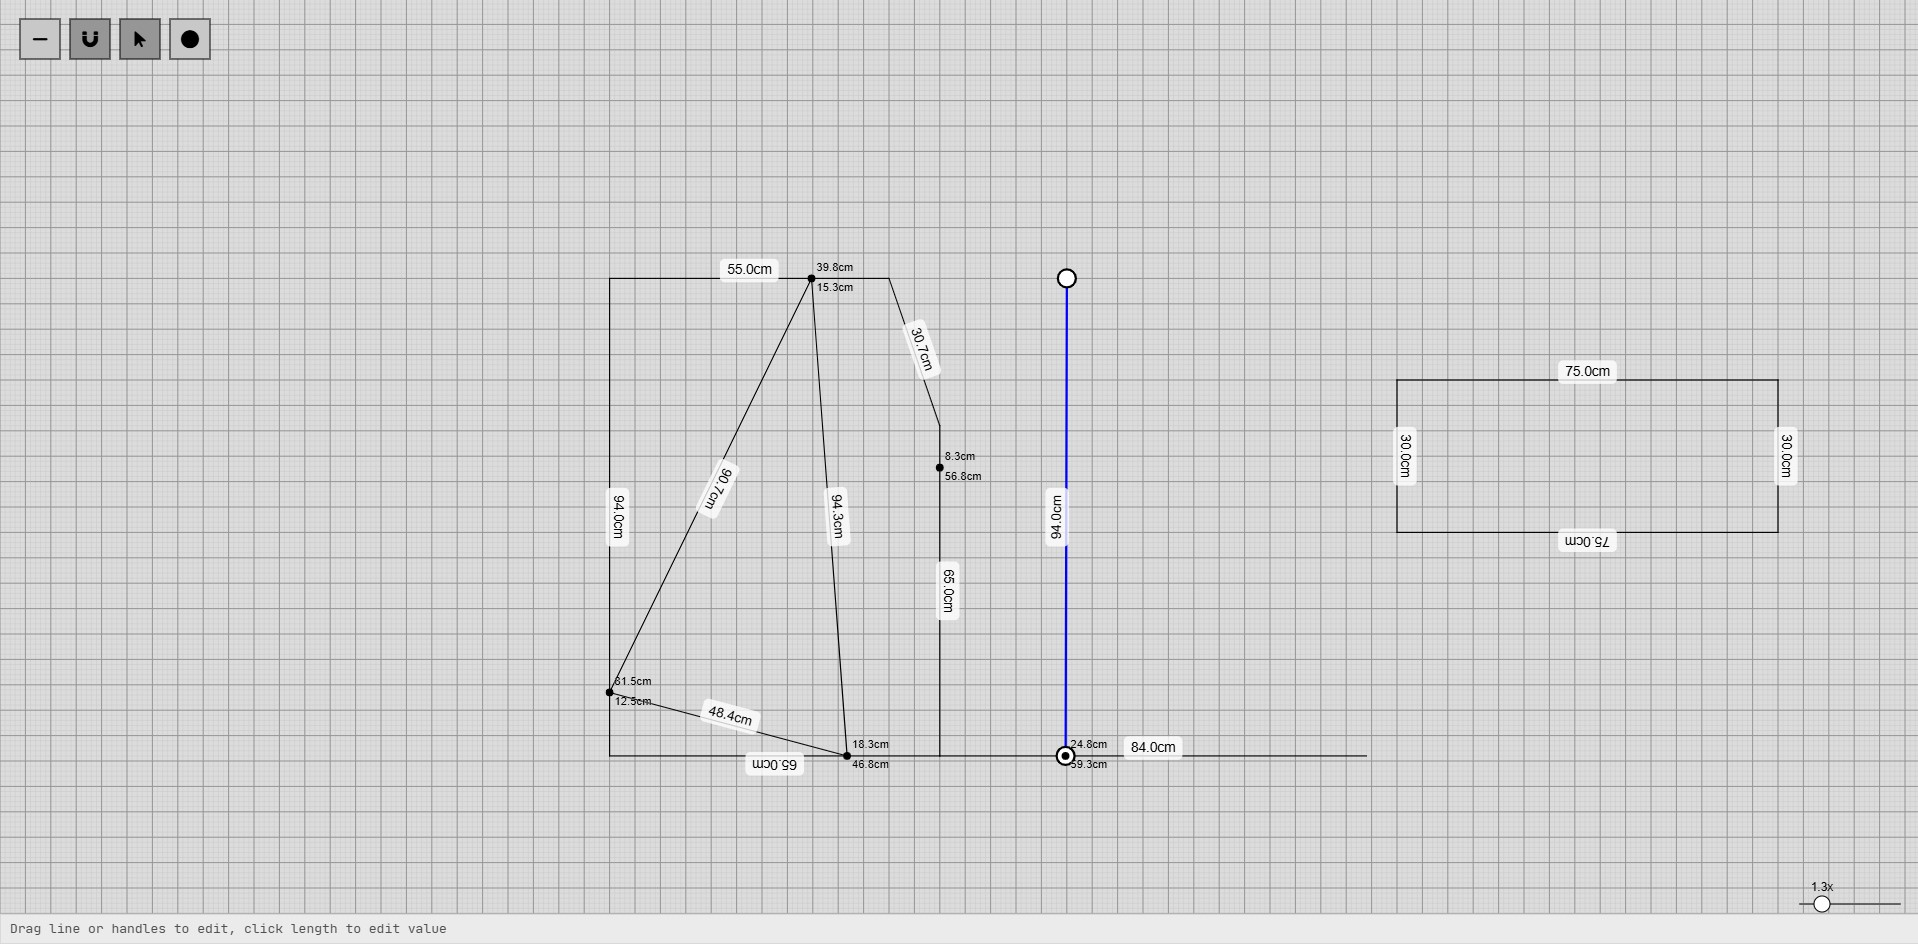
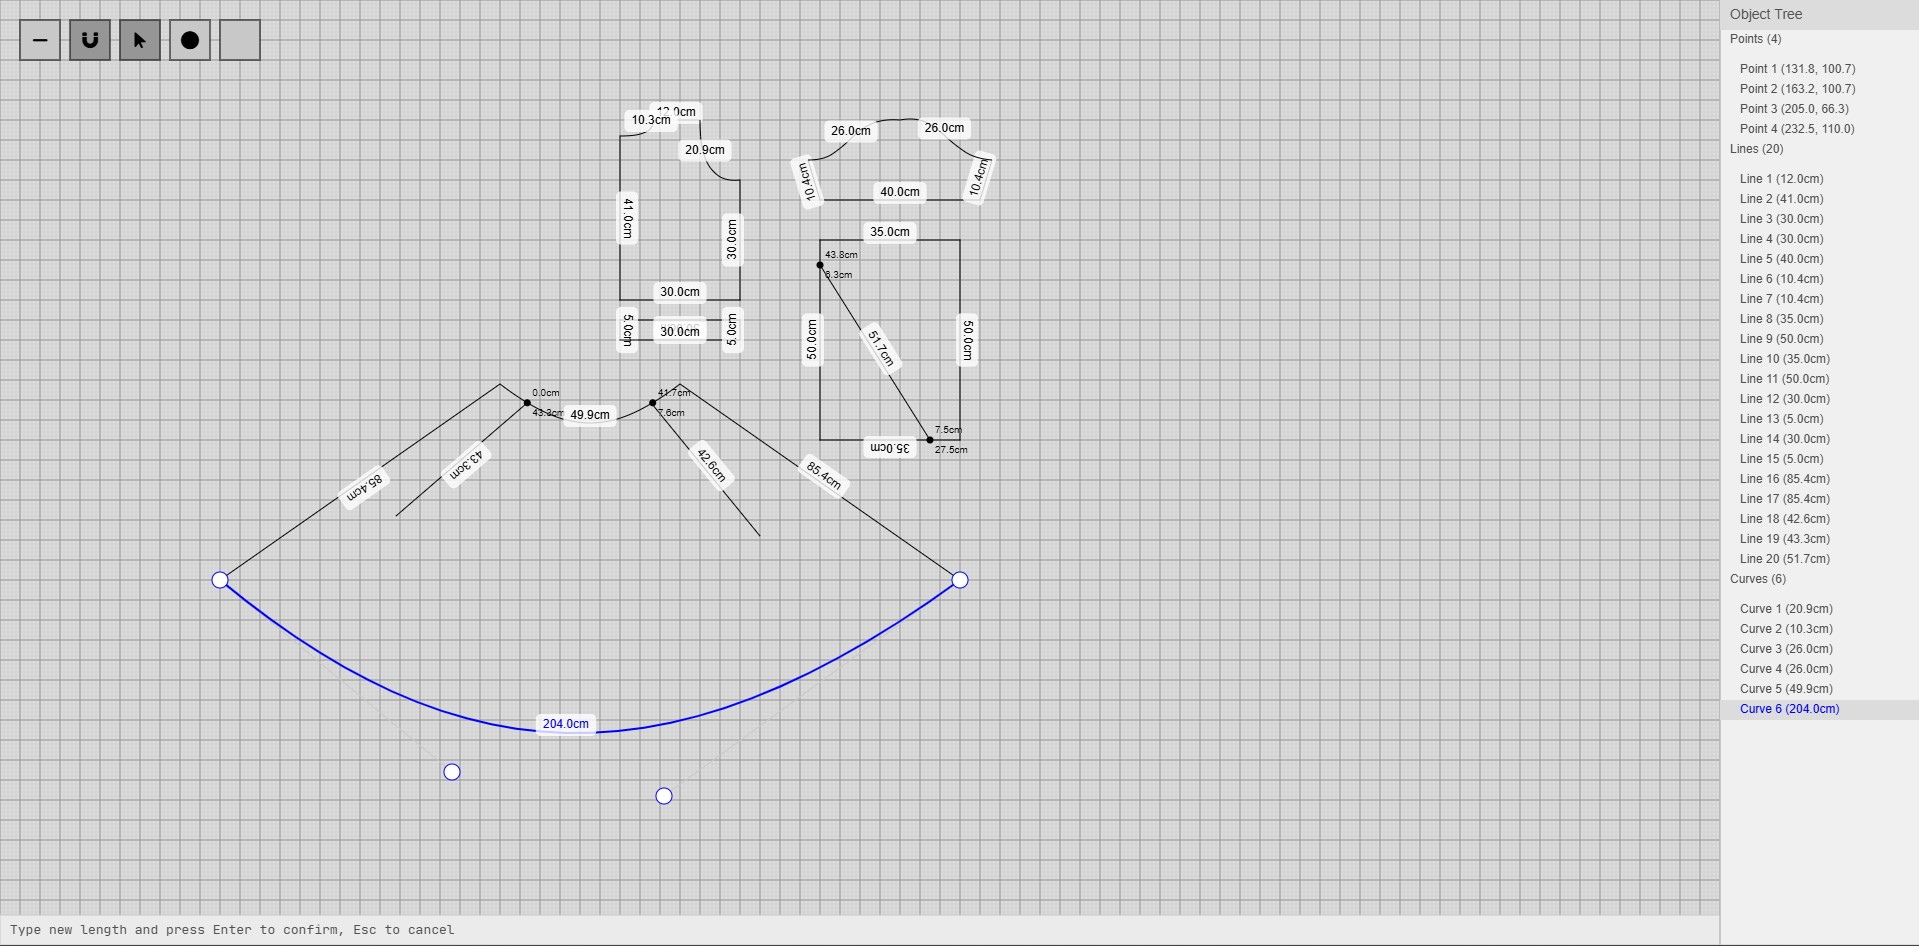
Add object tree panel with selection and resizing functionality

Changed region(s): [[0.0, 0.0, 1.0, 1.0]]

diff --git a/app.js b/app.js
@@ -46,6 +46,13 @@ let hoverSnapPoint = null;
 // Add to the top with other state variables
 let curveCache = new Map(); // Cache for curve lengths
 
+// Add at the top with other state variables
+let showObjectTree = true;
+let objectTreeWidth = 200;
+let isResizingTree = false;
+let treeMinWidth = 150;
+let treeMaxWidth = 400;
+
 function saveState(action) {
     redoStack = [];
     undoStack.push({
@@ -646,9 +653,21 @@ function mouseMoved() {
         redrawAll();
         hoverSnapPoint = null;
     }
+
+    // Check if mouse is over tree resize handle
+    if (abs(mouseX - (width - objectTreeWidth)) < 5) {
+        cursor('ew-resize');
+    } else {
+        cursor(ARROW);
+    }
 }
 
 function mousePressed() {
+    if (abs(mouseX - (width - objectTreeWidth)) < 5) {
+        isResizingTree = true;
+        return;
+    }
+
     if (isOverZoomSlider(mouseX, mouseY)) {
         isZoomSliderDragging = true;
         let sliderX = width - 120;
@@ -871,9 +890,76 @@ function mousePressed() {
             return;
         }
     }
+
+    // Object tree click handling
+    if (mouseX > width - objectTreeWidth && mouseY > 30) {
+        let y = 40;
+        let indent = 20;
+        let itemHeight = 20;
+
+        // Points section
+        y += 20; // Skip header
+        for (let i = 0; i < points.length; i++) {
+            if (mouseY >= y && mouseY < y + itemHeight) {
+                isSelectMode = true;
+                isDrawMode = false;
+                isPointMode = false;
+                isCurveMode = false;
+                selectedPoint = points[i];
+                selectedLine = null;
+                selectedCurve = null;
+                selectedControlPoint = null;
+                redrawAll();
+                return;
+            }
+            y += itemHeight;
+        }
+
+        // Lines section
+        y += 30; // Space for section header
+        for (let i = 0; i < lines.length; i++) {
+            if (mouseY >= y && mouseY < y + itemHeight) {
+                isSelectMode = true;
+                isDrawMode = false;
+                isPointMode = false;
+                isCurveMode = false;
+                selectedLine = lines[i];
+                selectedPoint = null;
+                selectedCurve = null;
+                selectedControlPoint = null;
+                redrawAll();
+                return;
+            }
+            y += itemHeight;
+        }
+
+        // Curves section
+        y += 30; // Space for section header
+        for (let i = 0; i < curves.length; i++) {
+            if (mouseY >= y && mouseY < y + itemHeight) {
+                isSelectMode = true;
+                isDrawMode = false;
+                isPointMode = false;
+                isCurveMode = false;
+                selectedCurve = curves[i];
+                selectedPoint = null;
+                selectedLine = null;
+                selectedControlPoint = null;
+                redrawAll();
+                return;
+            }
+            y += itemHeight;
+        }
+    }
 }
 
 function mouseDragged() {
+    if (isResizingTree) {
+        objectTreeWidth = constrain(width - mouseX, treeMinWidth, treeMaxWidth);
+        redrawAll();
+        return;
+    }
+
     if (isZoomSliderDragging) {
         let sliderX = width - 120;
         let sliderWidth = 100;
@@ -933,6 +1019,7 @@ function mouseDragged() {
 
 function mouseReleased() {
     isZoomSliderDragging = false;
+    isResizingTree = false;
 
     if (isSelectMode && (selectedPoint || (selectedLine && (selectedHandle || isDraggingLine)))) {
         saveState('move');
@@ -1157,6 +1244,9 @@ function redrawAll() {
 
     // Reset font for other text
     textFont('sans-serif');
+
+    // Draw object tree last so it's on top
+    drawObjectTree();
 }
 
 function distToSegment(p, v, w) {
@@ -1463,4 +1553,96 @@ function getNearestPointOnCurve(point, curve) {
         point: pixelToGrid(nearestPoint),
         distance: minDist
     };
+}
+
+function drawObjectTree() {
+    if (!showObjectTree) return;
+
+    // Track hover state
+    let hoverY = mouseY;
+    let hoverX = mouseX;
+    let isHovering = mouseX > width - objectTreeWidth;
+
+    // Draw panel background
+    fill(240);
+    stroke(200);
+    strokeWeight(1);
+    rect(width - objectTreeWidth, 0, objectTreeWidth, height);
+
+    // Draw resize handle
+    stroke(180);
+    line(width - objectTreeWidth, 0, width - objectTreeWidth, height);
+
+    // Draw header
+    fill(220);
+    noStroke();
+    rect(width - objectTreeWidth, 0, objectTreeWidth, 30);
+
+    // Draw header text
+    fill(80);
+    textAlign(LEFT, CENTER);
+    textSize(14);
+    text("Object Tree", width - objectTreeWidth + 10, 15);
+
+    // Start content area
+    let y = 40;
+    let indent = 20;
+    let itemHeight = 20;
+    textSize(12);
+
+    // Draw Points section
+    fill(80);
+    text("Points (" + points.length + ")", width - objectTreeWidth + 10, y);
+    y += 20;
+    for (let i = 0; i < points.length; i++) {
+        let p = points[i];
+        // Check hover state
+        if (isHovering && hoverY >= y && hoverY < y + itemHeight) {
+            fill(220);
+            noStroke();
+            rect(width - objectTreeWidth, y, objectTreeWidth, itemHeight);
+        }
+        fill(p === selectedPoint ? [0, 0, 255] : [80]);
+        text(`Point ${i + 1} (${p.x.toFixed(1)}, ${p.y.toFixed(1)})`,
+            width - objectTreeWidth + indent, y + itemHeight / 2);
+        y += itemHeight;
+    }
+
+    // Draw Lines section
+    y += 10;
+    fill(80);
+    text("Lines (" + lines.length + ")", width - objectTreeWidth + 10, y);
+    y += 20;
+    for (let i = 0; i < lines.length; i++) {
+        let l = lines[i];
+        // Check hover state
+        if (isHovering && hoverY >= y && hoverY < y + itemHeight) {
+            fill(220);
+            noStroke();
+            rect(width - objectTreeWidth, y, objectTreeWidth, itemHeight);
+        }
+        fill(l === selectedLine ? [0, 0, 255] : [80]);
+        text(`Line ${i + 1} (${calculateLength(l.start, l.end)}cm)`,
+            width - objectTreeWidth + indent, y + itemHeight / 2);
+        y += itemHeight;
+    }
+
+    // Draw Curves section
+    y += 10;
+    fill(80);
+    text("Curves (" + curves.length + ")", width - objectTreeWidth + 10, y);
+    y += 20;
+    for (let i = 0; i < curves.length; i++) {
+        let c = curves[i];
+        // Check hover state
+        if (isHovering && hoverY >= y && hoverY < y + itemHeight) {
+            fill(220);
+            noStroke();
+            rect(width - objectTreeWidth, y, objectTreeWidth, itemHeight);
+        }
+        fill(c === selectedCurve ? [0, 0, 255] : [80]);
+        text(`Curve ${i + 1} (${calculateCurveLength(c)}cm)`,
+            width - objectTreeWidth + indent, y + itemHeight / 2);
+        y += itemHeight;
+    }
 } 
